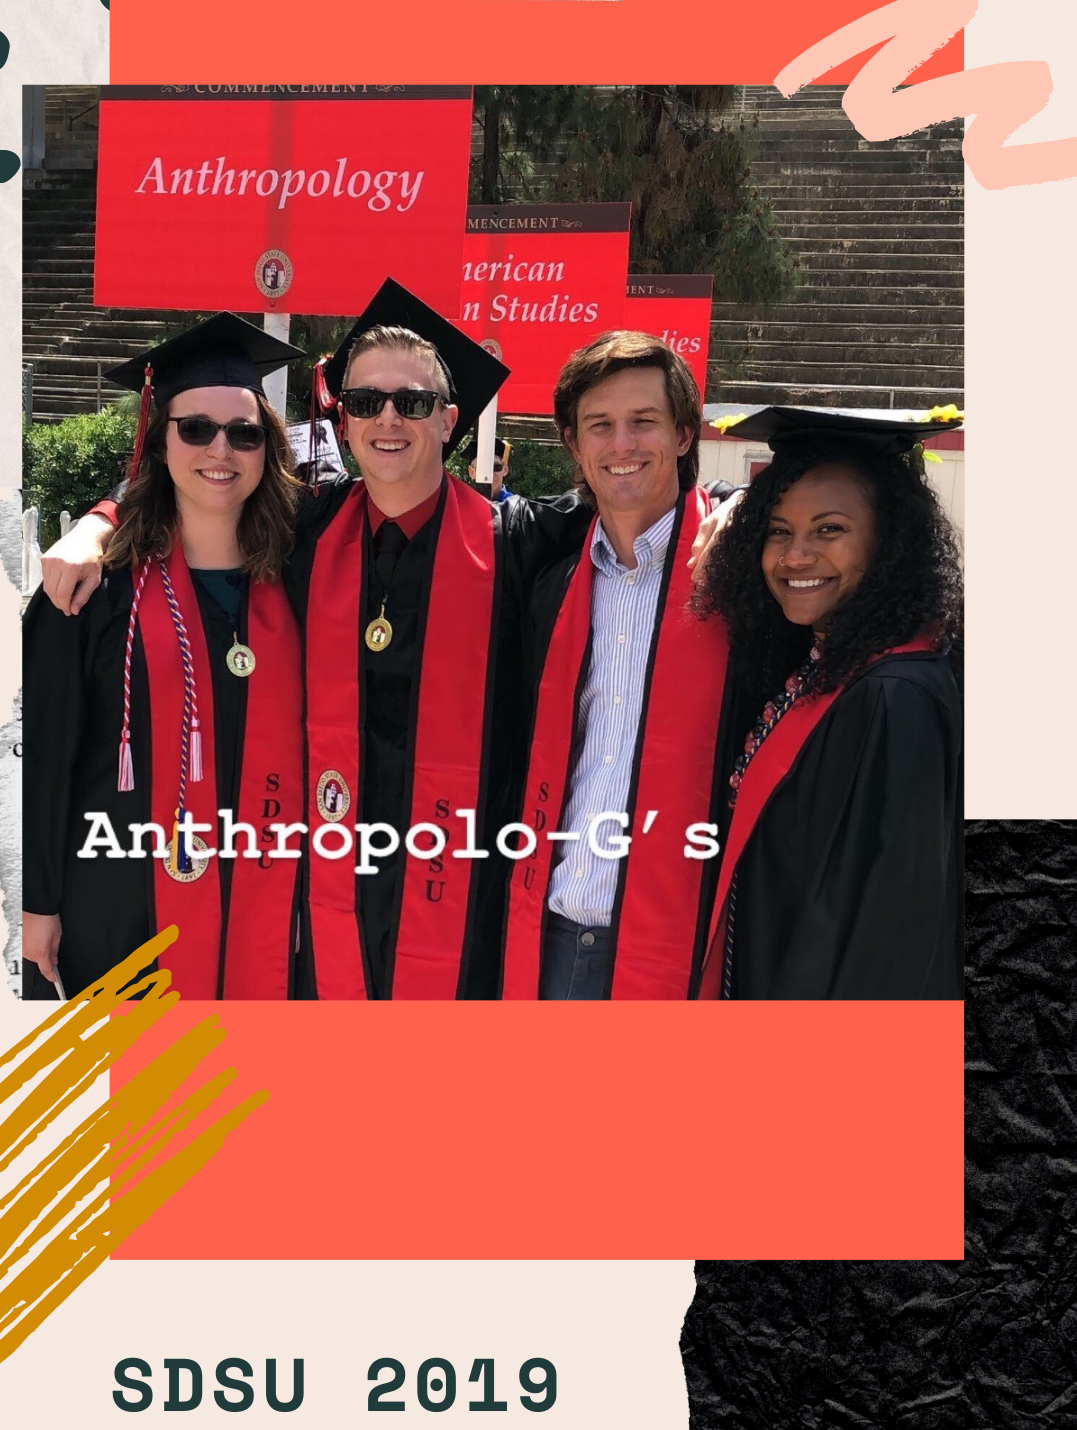
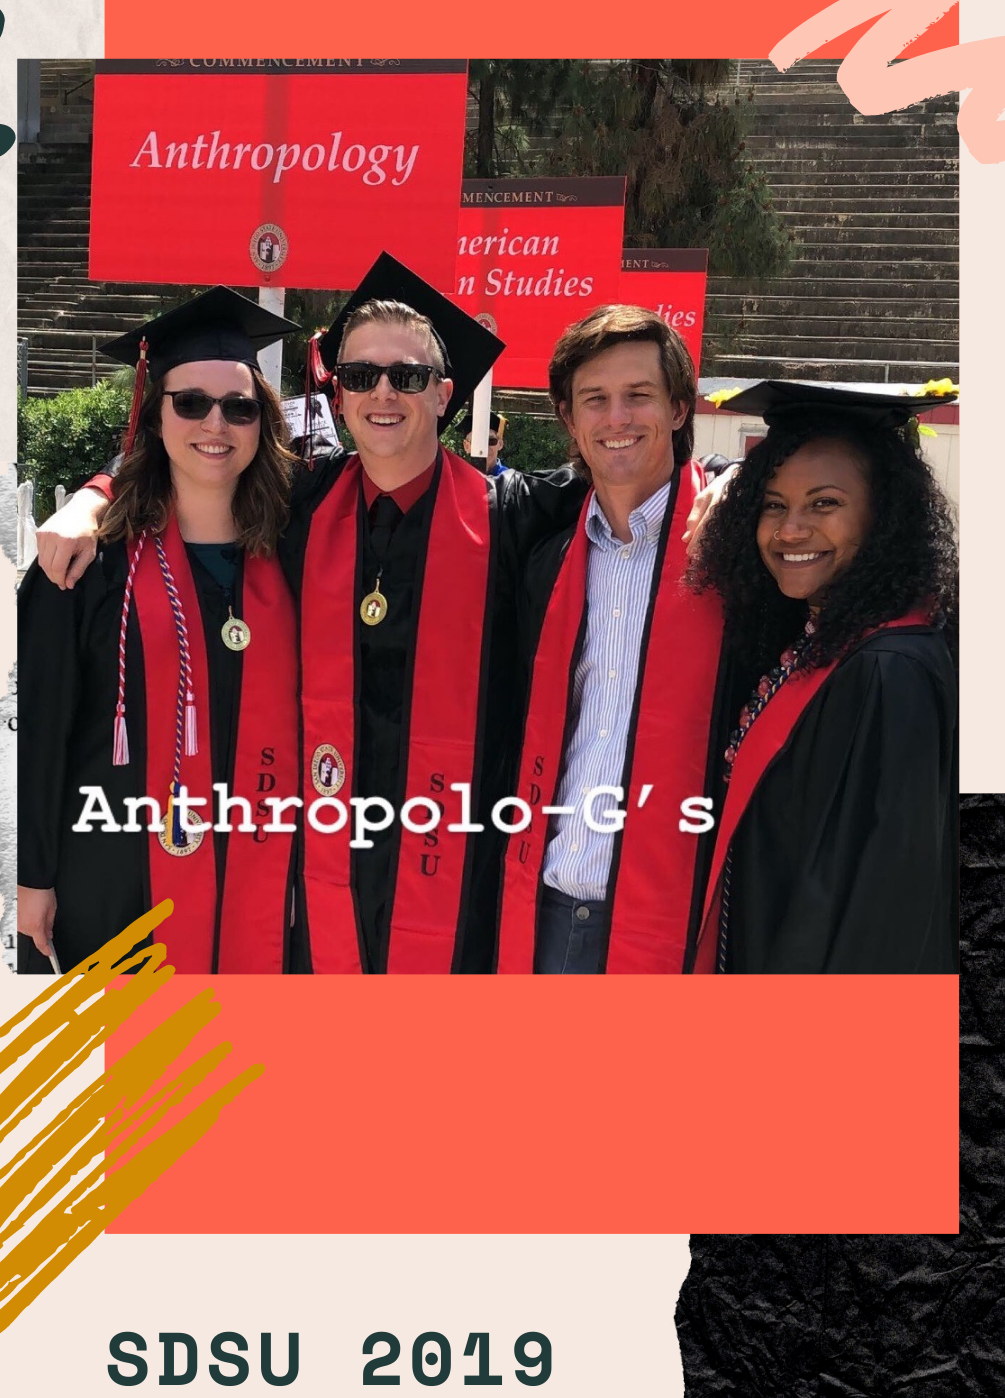
added text/adjusted responsiveness

diff --git a/about.html b/about.html
@@ -32,47 +32,51 @@
 
         <main class="container">
             <div class="row about">
-                <div class="col-5 caption greeting">
+                <div class="col-md-5 caption greeting">
                     <div>
                         <h1 class="text-center">"Hanging with the G's"</h1>
-                        <p class="col">Lorem ipsum dolor sit amet consectetur adipisicing elit. Voluptates assumenda minus, alias voluptatem ea dolorum voluptatibus distinctio placeat fugit ullam tenetur maiores illo possimus ipsam labore ad aperiam repellendus magnam magni nostrum nisi deserunt a vero? Sed, culpa possimus! Laborum, harum est provident explicabo voluptas sapiente quod minus rem alias officiis dicta excepturi assumenda odit nulla corporis nobis nesciunt? Recusandae?</p>
+                        <p class="col">
+                            I am originally form Modesto, CA. I moved down to San Diego on Janurary 1st of 2015. I was hoping to get into San Diego State University. I thought my chances of getting in would be better if I became local. Fast forward two years and you have four transfer students who began together, finish together. The end goal for me was to later get my master's in Anthropology to eventually teach at a higher-education level. But life has a funny way of changing the plan. 
+                        </p>
                     </div>
                 </div>
-                <div class="col-7 photo">
+                <div class="col-md-7 photo">
                     <figure>
                         <img class="img" src="assets/images/graduation.png" alt="">
                     </figure>
                 </div>
             </div>
             <div class="row about">
-                <div class="col-7 photo">
+                <div class="col-md-7 photo">
                     <figure>
                         <img class="img" src="assets/images/life-on-edge.png" alt="">
                     </figure>
                 </div>
-                <div class="col-5 caption greeting">
+                <div class="col-md-5 caption greeting">
                     <div>
                         <h1 class="text-center">"Living Life On the Edge"</h1>
-                        <p class="col">Lorem ipsum dolor sit amet consectetur adipisicing elit. Voluptates assumenda minus, alias voluptatem
-                        ea dolorum voluptatibus distinctio placeat fugit ullam tenetur maiores illo possimus ipsam labore ad aperiam
-                        repellendus magnam magni nostrum nisi deserunt a vero? Sed, culpa possimus! Laborum, harum est provident
-                        explicabo voluptas sapiente quod minus rem alias officiis dicta excepturi assumenda odit nulla corporis nobis
-                        nesciunt? Recusandae?</p>
+                        <p class="col">
+                            While I was trying to figure out what I would do next, I decided to have a little fun. Do some things that I have been afraid to do. Hindsite, I think I would jump out of the plane again instead of run a half-marathon. But then that would make me a liar because I signed up for two more half-marathons the day after completing the first.
+                            <br> <br>
+
+                            Bring in the start of 2020, and I decided it was time to move again. This time, I would be making my way over to Peoria, Arizona. What an eye-opening yet wonderful experience it has been thus far.
+                        </p>
+                        
                     </div>
                 </div>
             </div>
             <div class="row about">
-                <div class="col-5 caption greeting">
+                <div class="col-md-5 caption greeting">
                     <div>
                         <h1 class="text-center">"Building the Foundation"</h1>
-                        <p class="col">Lorem ipsum dolor sit amet consectetur adipisicing elit. Voluptates assumenda minus, alias voluptatem
-                        ea dolorum voluptatibus distinctio placeat fugit ullam tenetur maiores illo possimus ipsam labore ad aperiam
-                        repellendus magnam magni nostrum nisi deserunt a vero? Sed, culpa possimus! Laborum, harum est provident
-                        explicabo voluptas sapiente quod minus rem alias officiis dicta excepturi assumenda odit nulla corporis nobis
-                        nesciunt? Recusandae?</p>
+                        <p class="col">
+                            With the increase of usage of social media, I found myself scrolling Pinterest one day. I ran across a pin that said "How to become a software developer." Little did I know that clicking that pin would change the trajectory of my life. It fueled a passion I didn't even know I had. 
+                            <br><br>
+                            I have spent the last 10 months learning all that I could about web development. I thought the only logical step for myself would be to enroll in a coding bootcamp to push myself out of my comfort zone. Not only am I excited about my future, but I am excited to continue to lean and develop the foundation needed to become a full-stack web developer. 
+                        </p>
                     </div>
                 </div>
-                <div class="col-7 photo">
+                <div class="col-md-7 photo">
                     <img class="img" src="assets/images/bootcamp.png" alt="">
                 </div>
             </div>

diff --git a/assets/style.css b/assets/style.css
@@ -94,12 +94,11 @@ a:hover {
 }
 
 .img {
+    max-width: 100%;
     margin-top:10px;
-    height: 650px;
 }
 
 .photo {
-
     display: flex;
     justify-content: center;
 }
